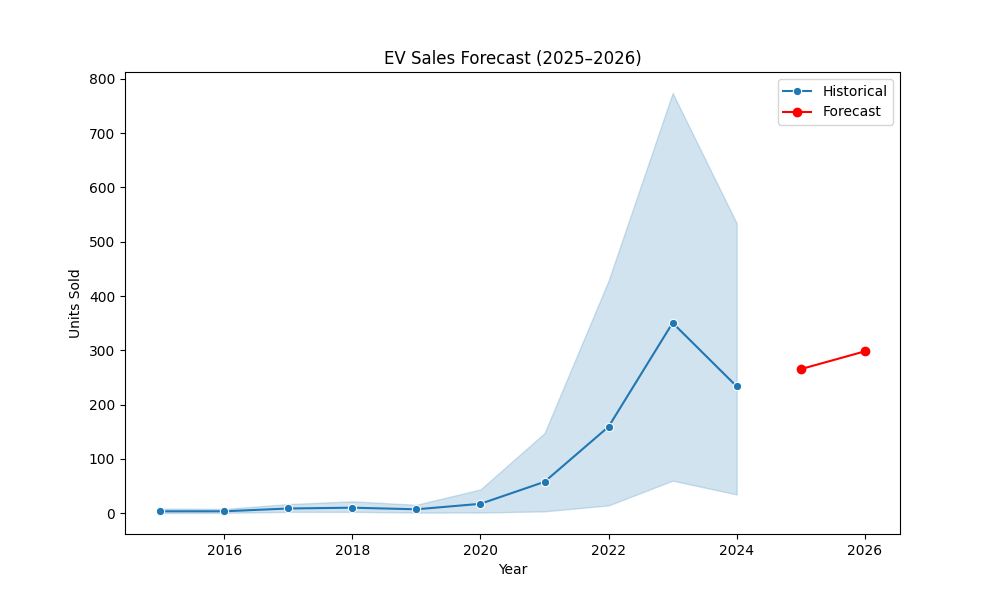
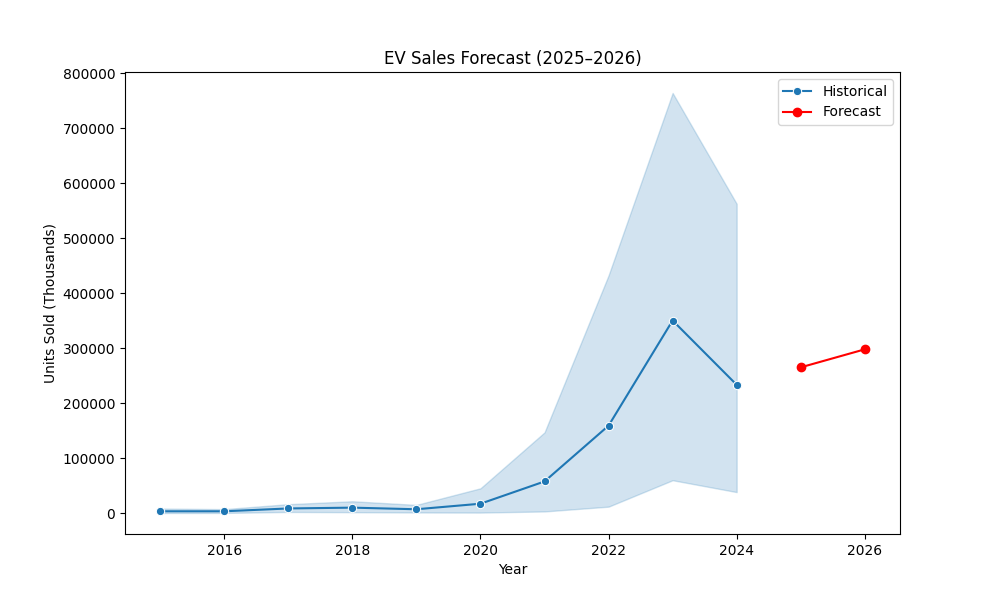
Phase 3 analysis.py updated to 1000 units scale

diff --git a/analysis.py b/analysis.py
@@ -25,11 +25,12 @@ summary_lines = ["# Phase 3: Analysis Summary\n\n## Key Insights\n"]
 
 # EDA: EV Sales Trends
 if not ev_sales.empty and 'year' in ev_sales.columns and 'units_sold' in ev_sales.columns:
+    ev_sales['units_sold_scaled'] = ev_sales['units_sold'] * 1000  # Scale to actual units
     plt.figure(figsize=(10, 6))
-    sns.lineplot(data=ev_sales, x='year', y='units_sold', hue='vehicle_category', marker='o')
+    sns.lineplot(data=ev_sales, x='year', y='units_sold_scaled', hue='vehicle_category', marker='o')
     plt.title('India EV Sales (Passenger Vehicles, 2015–2024)')
     plt.xlabel('Year')
-    plt.ylabel('Units Sold')
+    plt.ylabel('Units Sold (Thousands)')
     plt.savefig(os.path.join(figures_dir, 'ev_sales_trend.png'))
     plt.close()
 
@@ -37,8 +38,8 @@ if not ev_sales.empty and 'year' in ev_sales.columns and 'units_sold' in ev_sale
     start_year = ev_sales['year'].min()
     end_year = ev_sales['year'].max()
     if end_year > start_year:
-        start_sales = ev_sales[ev_sales['year'] == start_year]['units_sold'].sum()
-        end_sales = ev_sales[ev_sales['year'] == end_year]['units_sold'].sum()
+        start_sales = ev_sales[ev_sales['year'] == start_year]['units_sold_scaled'].sum()
+        end_sales = ev_sales[ev_sales['year'] == end_year]['units_sold_scaled'].sum()
         if start_sales > 0:
             cagr = ((end_sales / start_sales) ** (1 / (end_year - start_year)) - 1) * 100
             summary_lines.append(f"- **EV Market Growth**: Passenger EV sales grew at a CAGR of {cagr:.2f}% from {start_year}–{end_year}.\n")
@@ -88,7 +89,7 @@ else:
 # Forecasting: EV Sales for 2026
 if not ev_sales.empty and len(ev_sales['year'].unique()) >= 2:
     X = ev_sales[['year']].values
-    y = ev_sales['units_sold'].values
+    y = ev_sales['units_sold'].values * 1000  # Scale to actual units
     model = LinearRegression()
     model.fit(X, y)
     future_years = np.array([[2025], [2026]])
@@ -96,11 +97,11 @@ if not ev_sales.empty and len(ev_sales['year'].unique()) >= 2:
     forecast = pd.DataFrame({'year': [2025, 2026], 'predicted_units_sold': predictions})
     print("2026 EV Sales Forecast:\n", forecast)
     plt.figure(figsize=(10, 6))
-    sns.lineplot(data=ev_sales, x='year', y='units_sold', label='Historical', marker='o')
+    sns.lineplot(data=ev_sales, x='year', y='units_sold_scaled', label='Historical', marker='o')
     plt.plot(future_years, predictions, 'ro-', label='Forecast')
     plt.title('EV Sales Forecast (2025–2026)')
     plt.xlabel('Year')
-    plt.ylabel('Units Sold')
+    plt.ylabel('Units Sold (Thousands)')
     plt.legend()
     plt.savefig(os.path.join(figures_dir, 'sales_forecast.png'))
     plt.close()

diff --git a/docs/data_dictionary.md b/docs/data_dictionary.md
@@ -1,38 +1,32 @@
-Data Dictionary: Market Entry Simulator
-This document describes the datasets used to analyze Tesla’s potential entry into the Indian EV market in 2026.
-1. ev_sales_india.csv
+   # Data Dictionary: Market Entry Simulator
 
-Source: Kaggle - India EV Market Data 2001–2024
-Description: Historical EV sales in India, filtered for passenger vehicles (LMV, 2015–2024).
-Variables:
-year: Integer (e.g., 2020)
-units_sold: Integer, number of EVs sold
-vehicle_category: String, vehicle type (LMV)
+   This document describes the datasets used to analyze Tesla’s potential entry into the Indian EV market in 2026.
 
+   ## 1. ev_sales_india.csv
+   - **Source**: Kaggle - [India EV Market Data 2001–2024](https://www.kaggle.com/datasets/srinrealyf/india-ev-market-data)
+   - **Description**: Historical EV sales in India, filtered for passenger vehicles (LMV, 2015–2024).
+   - **Variables**:
+     - `year`: Integer (e.g., 2020)
+     - `units_sold`: Integer, number of EVs sold
+     - `vehicle_category`: String, vehicle type (LMV)
+   - **Use**: Estimate market size and CAGR for 2026 projections.
 
-Use: Estimate market size and CAGR for 2026 projections.
+   ## 2. gdp_india.csv
+   - **Source**: World Bank - [GDP](https://data.worldbank.org/indicator/NY.GDP.MKTP.CD?locations=IN), [Urban Population](https://data.worldbank.org/indicator/SP.URB.TOTL.IN.ZS?locations=IN)
+   - **Description**: Economic indicators for India (2020–2023).
+   - **Variables**:
+     - `year`: Integer
+     - `gdp_usd_billions`: Float, GDP in USD billions
+     - `urban_population_percent`: Float, urban population as % of total
+   - **Use**: Assess economic feasibility and consumer base.
 
-2. gdp_india.csv
-
-Source: World Bank - GDP, Urban Population
-Description: Economic indicators for India (2020–2023).
-Variables:
-year: Integer
-gdp_usd_billions: Float, GDP in USD billions
-urban_population_percent: Float, urban population as % of total
-
-
-Use: Assess economic feasibility and consumer base.
-
-3. competitor_data.csv
-
-Source: Kaggle - Vehicle Dataset from CarDekho, enriched with 2024 market share data
-Description: Market share and pricing of EV players in India (2023–2024).
-Variables:
-company: String (e.g., Tata, MG)
-year: Integer
-market_share_percent: Float, % of EV market
-avg_price_usd: Float, average vehicle price in USD
-
-
-Use: Analyze competitive landscape for Tesla’s entry.
+   ## 3. competitor_data.csv
+   - **Source**: Kaggle - [Vehicle Dataset from CarDekho (v4)](https://www.kaggle.com/datasets/nehalbirla/vehicle-dataset-from-cardekho), enriched with 2024 market share data
+   - **Description**: Market share and pricing of EV players in India (2023–2024).
+   - **Variables**:
+     - `company`: String (e.g., Tata, MG)
+     - `year`: Integer
+     - `market_share_percent`: Float, % of EV market
+     - `avg_price_usd`: Float, average vehicle price in USD
+   - **Use**: Analyze competitive landscape for Tesla’s entry.
+   - **Note**: `Car details v3.csv` was not used as it contains no electric vehicles (fuel types: Diesel, Petrol, LPG, CNG).

diff --git a/docs/analysis_summary.md b/docs/analysis_summary.md
@@ -8,7 +8,7 @@
 
 - **Competitor Landscape**: Tata leads with ~53.0% share. Pricing ranges from USD 16736.53 to 25149.70.
 
-- **2026 Forecast**: Predicted 298 passenger EV units sold in 2026.
+- **2026 Forecast**: Predicted 298123 passenger EV units sold in 2026.
 
 - **Clusters**: Competitors form low-price/high-share (e.g., Tata) and mid-price/mid-share (e.g., MG). Tesla can target premium.
 
